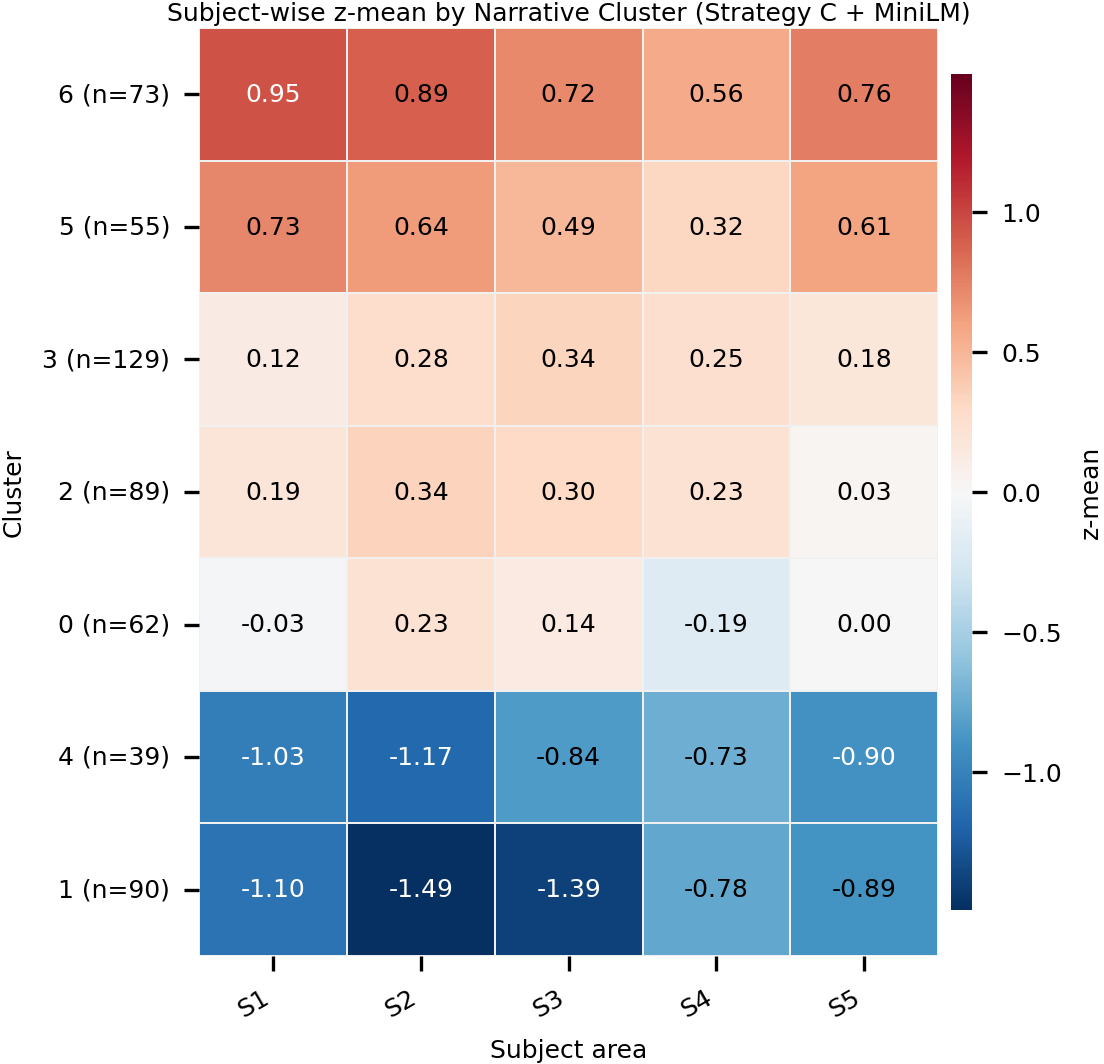
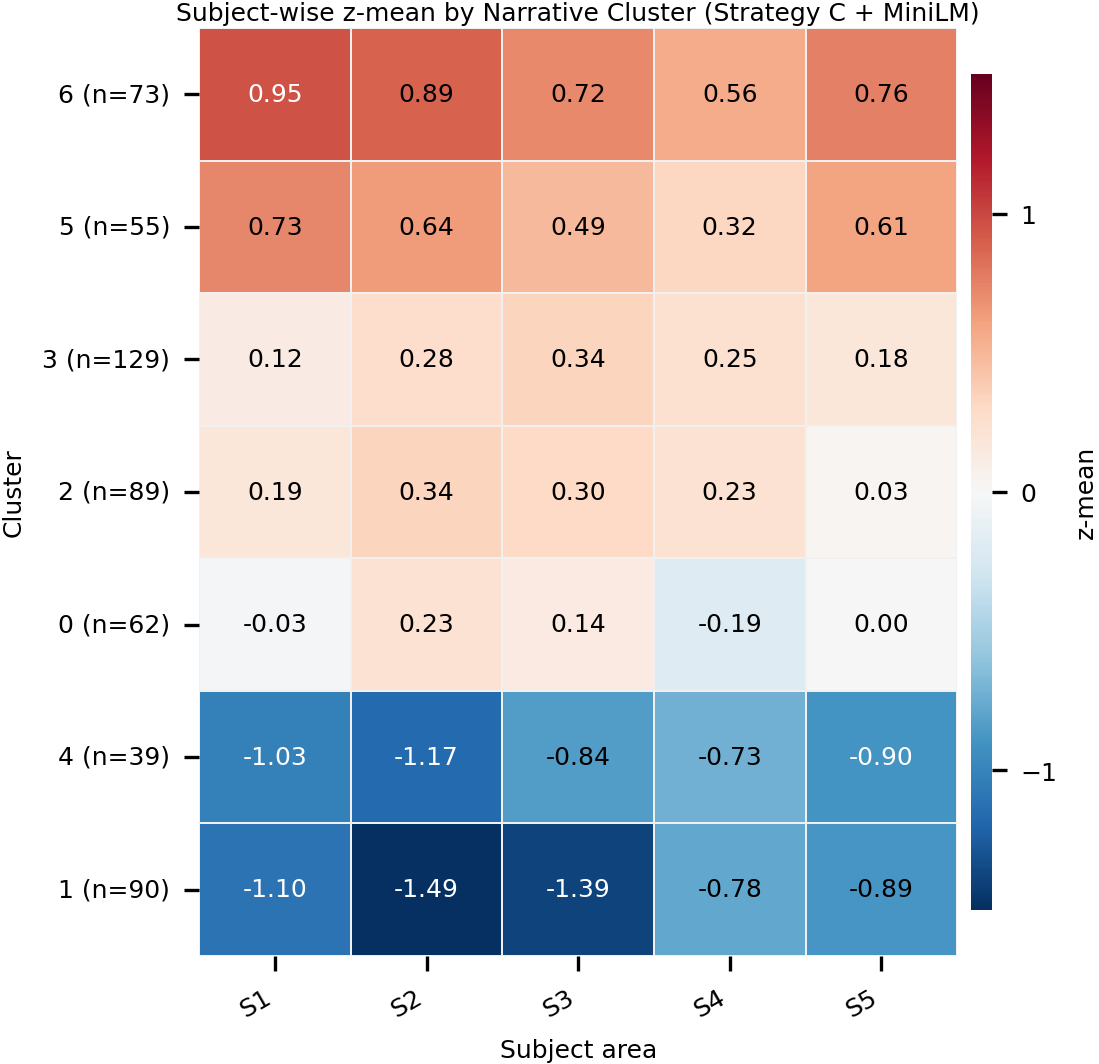
added changes

diff --git a/narrative_embedding_clustering/05_visualize_embeddings.py b/narrative_embedding_clustering/05_visualize_embeddings.py
@@ -5,9 +5,6 @@ import numpy as np
 import pandas as pd
 import matplotlib.pyplot as plt
 import seaborn as sns
-from matplotlib.patches import Polygon
-import matplotlib.patheffects as PathEffects
-from scipy.spatial import ConvexHull
 from sklearn.decomposition import PCA
 from sklearn.discriminant_analysis import LinearDiscriminantAnalysis
 from sklearn.manifold import TSNE
@@ -132,125 +129,6 @@ def _plot_scatter(
 
     print(f"Saved {title} plot to {out_path}")
 
-
-def _plot_grouped_hull_scatter(
-    coords: pd.DataFrame,
-    x_col: str,
-    y_col: str,
-    x_label: str,
-    y_label: str,
-    title: str,
-    filename: str,
-) -> None:
-    try:
-        import matplotlib.pyplot as plt
-    except ImportError:
-        return
-
-    fig, ax = plt.subplots(figsize=(10, 8))
-
-    # Define groups
-    groups = {
-        "Mastery Group": [0, 1, 2],
-        "Developing Group": [3, 4, 5],
-        "Struggling Group": [6, 7, 8]
-    }
-    
-    # Draw hulls first (background)
-    for group_name, cluster_ids in groups.items():
-        subset = coords[coords["narrative_best_label"].isin(cluster_ids)]
-        if len(subset) < 3:
-            continue
-            
-        points = subset[[x_col, y_col]].values
-        try:
-            hull = ConvexHull(points)
-            hull_points = points[hull.vertices]
-            
-            # Mimic the yellow highlighter look
-            poly = Polygon(
-                hull_points, 
-                closed=True, 
-                facecolor='none', 
-                edgecolor='yellow', 
-                linewidth=20, 
-                alpha=0.5, 
-                joinstyle='round',
-                capstyle='round'
-            )
-            ax.add_patch(poly)
-            
-            # Add text annotation
-            cx = np.mean(points[:, 0])
-            
-            # Determine placement based on group
-            if "Mastery" in group_name:
-                # Place below
-                cy = np.min(points[:, 1]) - 0.005
-                va = 'top'
-            else:
-                # Place above (Developing and Struggling)
-                cy = np.max(points[:, 1]) + 0.005
-                va = 'bottom'
-            
-            txt = ax.text(
-                cx, cy, group_name, 
-                fontsize=13, 
-                color='blue', 
-                ha='center', 
-                va=va, 
-                weight='bold'
-            )
-            txt.set_path_effects([PathEffects.withStroke(linewidth=2, foreground='white')])
-            
-        except Exception as e:
-            print(f"Could not draw hull for {group_name}: {e}")
-
-    # Draw scatter points
-    # Fixed high-contrast palette (stable mapping: cluster id -> color)
-    # Note: We deliberately map by cluster *id* (0..8) to avoid colormap normalization/ordering issues.
-    cluster_palette = {
-        0: "#0072B2",  # Blue
-        1: "#D55E00",  # Vermillion
-        2: "#009E73",  # Green
-        3: "#CC79A7",  # Purple
-        4: "#999933",  # Olive
-        5: "#56B4E9",  # Sky blue
-        6: "#E69F00",  # Orange
-        7: "#000000",  # Black
-        8: "#999999",  # Grey
-    }
-
-    labels = sorted(coords["narrative_best_label"].dropna().unique())
-    for label in labels:
-        label_int = int(label)
-        subset = coords[coords["narrative_best_label"] == label]
-        ax.scatter(
-            subset[x_col],
-            subset[y_col],
-            color=cluster_palette.get(label_int, "#333333"),
-            s=40,
-            alpha=1.0,
-            edgecolor="white",
-            linewidth=0.5,
-            label=f"Cluster {label_int}",
-        )
-
-    ax.legend(title="Narrative Cluster", bbox_to_anchor=(1.05, 1), loc="upper left")
-
-    ax.set_xlabel(x_label)
-    ax.set_ylabel(y_label)
-    ax.set_title(title)
-    ax.grid(True, alpha=0.2)
-
-    figures_dir = OUTPUT_DIR / "figures"
-    figures_dir.mkdir(parents=True, exist_ok=True)
-    out_path = figures_dir / filename
-    fig.tight_layout()
-    fig.savefig(out_path, dpi=200)
-    plt.close(fig)
-
-    print(f"Saved grouped hull plot to {out_path}")
 
 
 def _enforce_pca_orientation(coords_pca: pd.DataFrame, df_features: pd.DataFrame) -> tuple[pd.DataFrame, pd.DataFrame]:
@@ -538,20 +416,7 @@ def main() -> None:
         x_label=f"PC1 ({var_exp[0]:.1%} var)",
         y_label=f"PC3 ({var_exp[2]:.1%} var)",
     )
-    
-    # Final Grouped Plot with Hulls - ONLY for Template A + MiniLM
-    # The user requested this specific visualization only for this configuration
-    if NARRATIVE_TEMPLATE_VERSION == "A" and "MiniLM" in EMBEDDING_MODEL_NAME:
-        _plot_grouped_hull_scatter(
-            coords_pca,
-            x_col="dim1",
-            y_col="dim3",
-            x_label=f"PC1 ({var_exp[0]:.1%} var)",
-            y_label=f"PC3 ({var_exp[2]:.1%} var)",
-            title=f"Narrative Clusters: PC1 vs PC3",
-            filename=make_versioned_filename("embeddings_pca_PC1_vs_PC3_final_hulls.png")
-        )
-    
+
     # Plot 3: PC2 vs PC3
     _plot_scatter(
         coords_pca,

diff --git a/narrative_embedding_clustering/04_compare_with_gmm_bic.py b/narrative_embedding_clustering/04_compare_with_gmm_bic.py
@@ -56,9 +56,8 @@ def _save_zmean_heatmap(df: pd.DataFrame, cluster_col: str, value_cols: list, ou
     # Order clusters by overall z-mean (row mean) so high-performing clusters
     # appear on top, moderate in the middle, low-performing at the bottom.
     mat = mat.loc[mat.mean(axis=1).sort_values(ascending=False).index]
-    vmax = float(np.nanmax(np.abs(mat.values))) if mat.size else 0.0
-    vmax = max(1.0, min(3.0, vmax))
-    vmin = -vmax
+    vmax = 1.5
+    vmin = -1.5
     n_rows, n_cols = mat.shape
     annot_size = 6
     fig_w = min(4.2, max(3.0, (0.52 * n_cols) + 1.10))
@@ -73,7 +72,7 @@ def _save_zmean_heatmap(df: pd.DataFrame, cluster_col: str, value_cols: list, ou
         annot=True,
         fmt=".2f",
         cbar=True,
-        cbar_kws={"label": "z-mean", "shrink": 0.9, "pad": 0.015, "aspect": 40},
+        cbar_kws={"label": "z-mean", "shrink": 0.9, "pad": 0.015, "aspect": 40, "ticks": [-1, 0, 1]},
         annot_kws={"size": annot_size, "weight": "normal"},
         linewidths=0.4,
         linecolor="#f0f0f0",